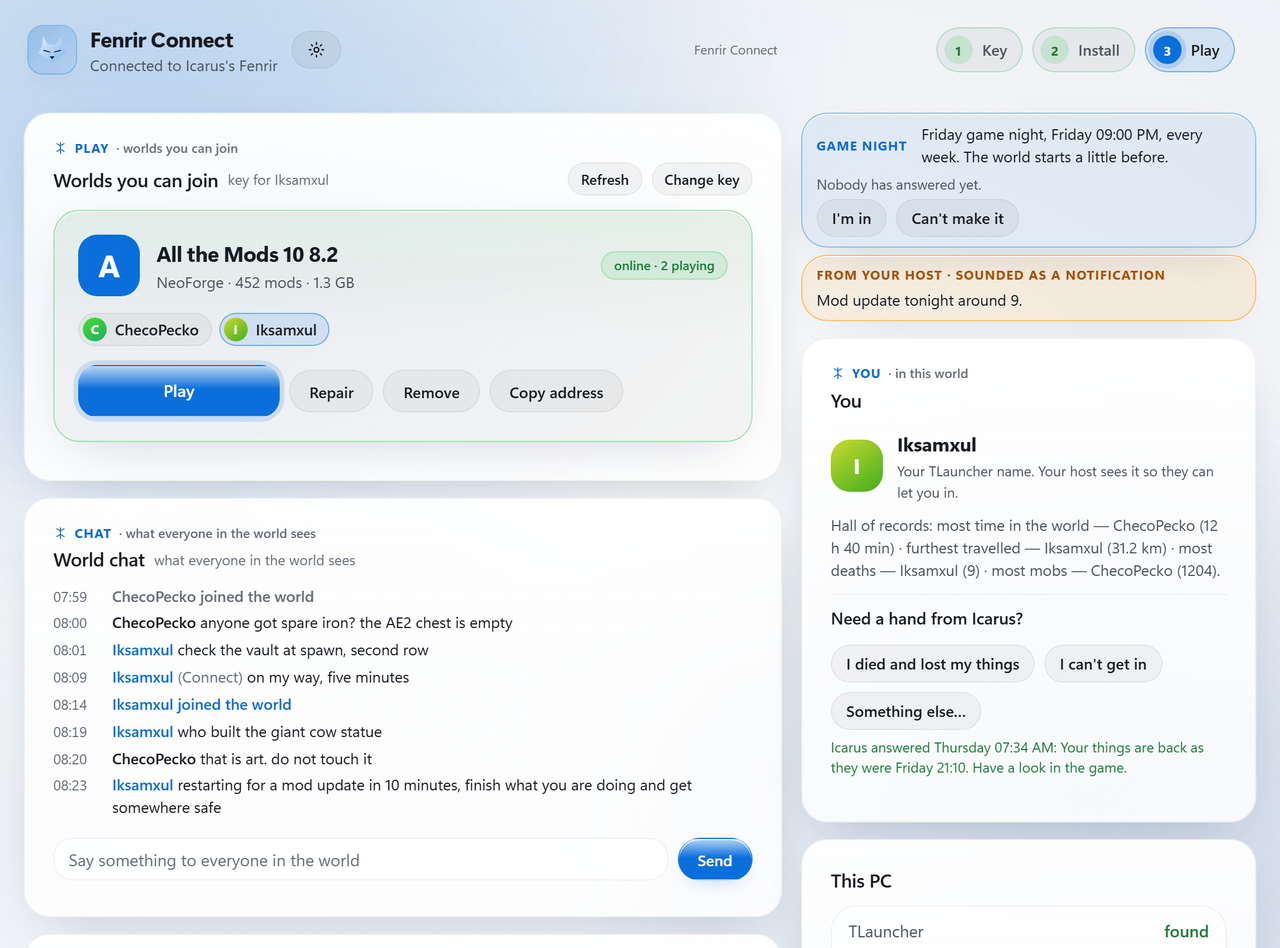
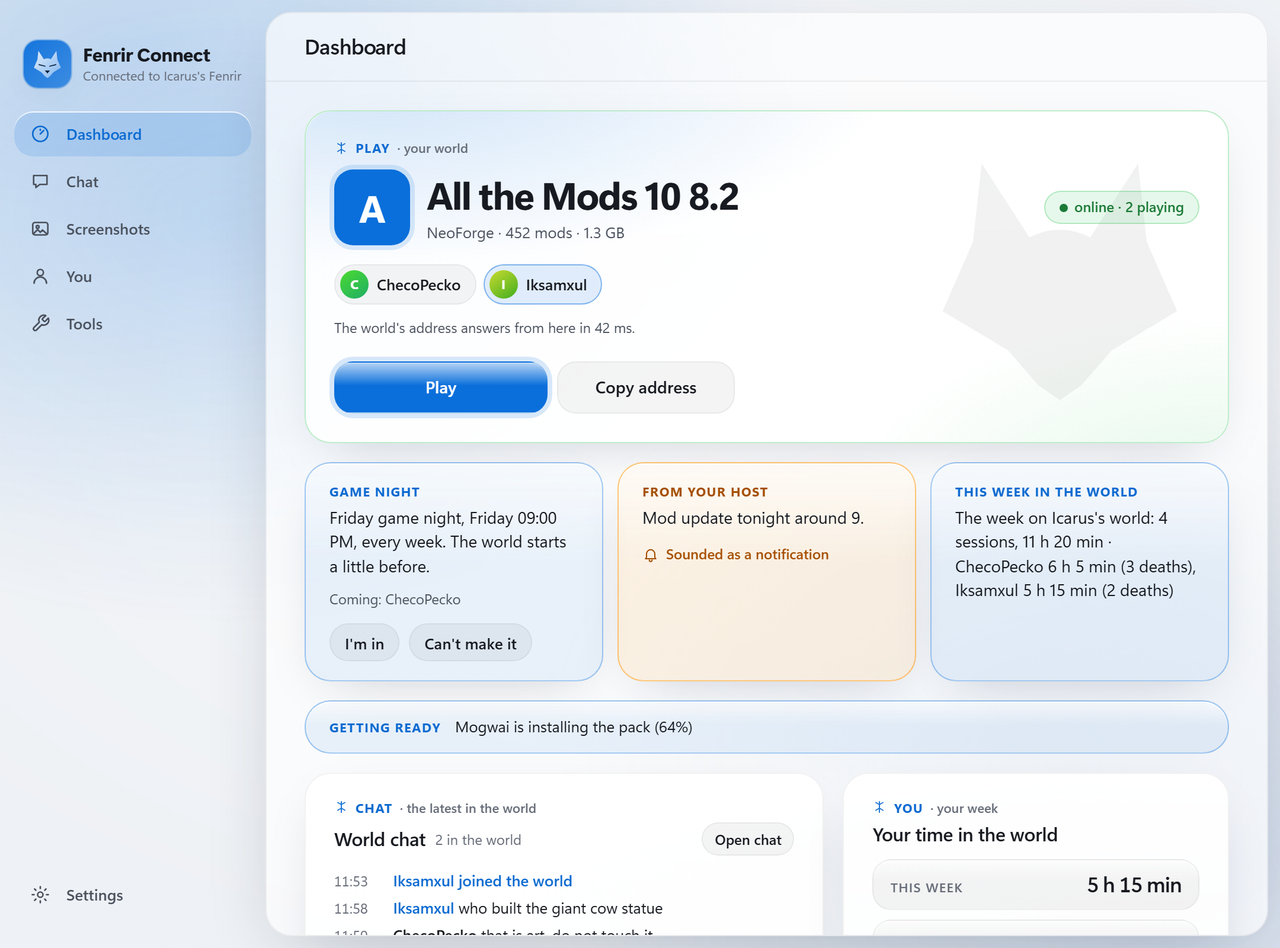
Fenrir site for build 1.36.0

diff --git a/link.html b/link.html
@@ -128,7 +128,7 @@
     <div class="wrap">
       <p class="eyebrow"><svg class="rune" aria-hidden="true"><use href="#rune"/></svg>Fenrir Link, for your phone</p>
       <h1 class="page-title" id="page-title"><span class="line">Your world.</span> <span class="line accent">In your pocket.</span></h1>
-      <p class="lead">Scan your code from Fenrir or Fenrir Connect once, and your phone keeps it like a passkey. Start the world from the sofa, see who is on, answer game nights and chat with everyone in the world.</p>
+      <p class="lead">Scan your code from Fenrir or Fenrir Connect once, and your phone keeps it like a passkey. A live dashboard, the console and every tool for your own server; for a friend's world, who is on, the chat and the game night.</p>
       <div class="phero__cta">
         <a class="btn btn--primary btn--lg" data-v-href="linkAndroid" role="link" aria-disabled="true"><svg class="i" aria-hidden="true"><use href="#i-down"/></svg>Get it for Android</a>
         <a class="btn btn--ghost btn--lg" href="#iphone">Get it for iPhone</a>
@@ -149,7 +149,7 @@
           <div class="phone__screen">
             <div class="phone__status" aria-hidden="true"><span>21:04</span><span><i style="height:4px"></i><i style="height:6px"></i><i style="height:8px"></i><i style="height:10px"></i></span></div>
             <div class="phone__notch" aria-hidden="true"></div>
-            <picture><source srcset="assets/shots/link-host-light.png" media="(prefers-color-scheme: light)" data-when="light"><img src="assets/shots/link-host.png" width="860" height="1800" alt="Fenrir Link on a phone, showing Icarus's server online with three players, its TPS and tick time, Restart and Stop buttons, the players with Kick buttons, and a box to message everyone." fetchpriority="high" decoding="async"></picture>
+            <picture><source srcset="assets/shots/link-host-light.png" media="(prefers-color-scheme: light)" data-when="light"><img src="assets/shots/link-host.png" width="860" height="1800" alt="Fenrir Link on a phone: the dashboard of Icarus's server, online with three players, its TPS, tick time and memory, Restart and Stop, a friend who needs a hand, and a chart of the last half hour." fetchpriority="high" decoding="async"></picture>
           </div>
         </div>
         <div class="phone phones__side phones__side--r" aria-hidden="true">
@@ -172,7 +172,7 @@
         <p class="copy">Every person has a code of their own, and the code is the key. Scan it once and the phone keeps it in its keychain, so there is no account and no password.</p>
         <ol class="pair-steps">
           <li><b>Your own server.</b> Open Fenrir on the PC that hosts. The Fenrir Link card on the Dashboard shows your code.</li>
-          <li><b>A friend's world.</b> Open Fenrir Connect. Your code is on the You card.</li>
+          <li><b>A friend's world.</b> Open Fenrir Connect. Your code is on the You page.</li>
           <li><b>Your phone.</b> Open Fenrir Link, press +, then Scan a code. That is the whole setup.</li>
         </ol>
       </div>
@@ -195,7 +195,7 @@
       <div class="scene__copy">
         <p class="eyebrow"><svg class="rune" aria-hidden="true"><use href="#rune"/></svg>Your server</p>
         <h2 class="title" id="t-host"><span class="line">Start the world</span> <span class="line accent">from the sofa.</span></h2>
-        <p class="copy">Start, stop and restart. Stopping while friends are on asks twice and names who is playing. See who is in, kick someone, answer friends who asked to play, message everyone and start a backup. The Doctor's most urgent finding sits at the top.</p>
+        <p class="copy">The dashboard opens on the world: online or off, how many are playing, its TPS, tick time and memory, and a chart of the last half hour. Start, stop and restart; stopping while friends are on asks twice and names who is playing. Friends who want to play or need a hand wait at the top, one tap from an answer.</p>
       </div>
       <div class="scene__visual pocket">
         <div class="glow" aria-hidden="true"></div>
@@ -203,7 +203,7 @@
           <div class="phone__screen">
             <div class="phone__status" aria-hidden="true"><span>21:04</span><span><i style="height:4px"></i><i style="height:6px"></i><i style="height:8px"></i><i style="height:10px"></i></span></div>
             <div class="phone__notch" aria-hidden="true"></div>
-            <picture><source srcset="assets/shots/link-host-light.png" media="(prefers-color-scheme: light)" data-when="light"><img src="assets/shots/link-host.png" width="860" height="1800" alt="Your server in Fenrir Link: online with three players, Restart and Stop, players with Kick buttons, a message box and the friends' states." loading="lazy" decoding="async"></picture>
+            <picture><source srcset="assets/shots/link-host-light.png" media="(prefers-color-scheme: light)" data-when="light"><img src="assets/shots/link-host.png" width="860" height="1800" alt="Your server's dashboard in Fenrir Link: online with three players, TPS, tick time and memory, Restart and Stop, and Kestrel asking to be let in." loading="lazy" decoding="async"></picture>
           </div>
         </div>
         <div class="chip pocket__ask"><span class="m-av m-av--sm" aria-hidden="true">M</span><span><b>Mogwai wants to play</b><small>Start the world · Not now</small></span></div>
@@ -212,13 +212,47 @@
     </div>
   </section>
 
+  <!-- The console and the tools -->
+  <section class="scene" id="tools" aria-labelledby="t-tools">
+    <div class="wrap scene__grid">
+      <div class="scene__copy">
+        <p class="eyebrow"><svg class="rune" aria-hidden="true"><use href="#rune"/></svg>Your server, on four tabs</p>
+        <h2 class="title" id="t-tools"><span class="line">The whole console.</span> <span class="line accent">Every tool.</span></h2>
+        <p class="copy">Everything the PC can do for the world, from wherever you are. Nothing to set up: it is all in the code you scanned.</p>
+        <ul class="tab-list">
+          <li><b>Dashboard</b>The world's state, TPS, tick time and memory, a chart of the last half hour, friends who want to play or need a hand.</li>
+          <li><b>Players</b>Who is on and for how long, a message to one of them, a kick, and the whitelist to add to or take from.</li>
+          <li><b>Console</b>The server's console, live, with chat, issues and Fenrir's own lines a tap apart, quick commands and a command line.</li>
+          <li><b>Tools</b>Back up now and the recent backups, save the world, make it day, the note to friends with a notification, and who can start the world.</li>
+        </ul>
+      </div>
+      <div class="scene__visual twophones">
+        <div class="glow" aria-hidden="true"></div>
+        <div class="phone twophones__a">
+          <div class="phone__screen">
+            <div class="phone__status" aria-hidden="true"><span>21:04</span><span><i style="height:4px"></i><i style="height:6px"></i><i style="height:8px"></i><i style="height:10px"></i></span></div>
+            <div class="phone__notch" aria-hidden="true"></div>
+            <picture><source srcset="assets/shots/link-console-light.png" media="(prefers-color-scheme: light)" data-when="light"><img src="assets/shots/link-console.png" width="860" height="1800" alt="The console in Fenrir Link: the server's lines with their times, chat in blue and a warning in amber, quick commands and a command line." loading="lazy" decoding="async"></picture>
+          </div>
+        </div>
+        <div class="phone twophones__b">
+          <div class="phone__screen">
+            <div class="phone__status" aria-hidden="true"><span>21:04</span><span><i style="height:4px"></i><i style="height:6px"></i><i style="height:8px"></i><i style="height:10px"></i></span></div>
+            <div class="phone__notch" aria-hidden="true"></div>
+            <picture><source srcset="assets/shots/link-tools-light.png" media="(prefers-color-scheme: light)" data-when="light"><img src="assets/shots/link-tools.png" width="860" height="1800" alt="The Tools tab: back up now with the last backup's size, the recent backups, save the world, make it day, clear the weather and the note to friends." loading="lazy" decoding="async"></picture>
+          </div>
+        </div>
+      </div>
+    </div>
+  </section>
+
   <!-- A friend's world -->
-  <section class="scene" id="friend" aria-labelledby="t-friend">
+  <section class="scene scene--deep scene--flip" id="friend" aria-labelledby="t-friend">
     <div class="wrap scene__grid">
       <div class="scene__copy">
         <p class="eyebrow"><svg class="rune" aria-hidden="true"><use href="#rune"/></svg>A friend's world</p>
         <h2 class="title" id="t-friend"><span class="line">Is everyone on?</span> <span class="line accent">Look before you go.</span></h2>
-        <p class="copy">See whether the world is up and who is playing. Ask your host to start it, answer the next game night and chat with everyone in the world, from wherever you are.</p>
+        <p class="copy">See whether the world is up and who is playing, and ask your host to start it. Answer the next game night, chat with everyone in the world, ask your host for a hand, look through the world's screenshots and share one of your own.</p>
       </div>
       <div class="scene__visual pocket">
         <div class="glow glow--teal" aria-hidden="true"></div>
@@ -226,7 +260,7 @@
           <div class="phone__screen">
             <div class="phone__status" aria-hidden="true"><span>21:04</span><span><i style="height:4px"></i><i style="height:6px"></i><i style="height:8px"></i><i style="height:10px"></i></span></div>
             <div class="phone__notch" aria-hidden="true"></div>
-            <picture><source srcset="assets/shots/link-friend-light.png" media="(prefers-color-scheme: light)" data-when="light"><img src="assets/shots/link-friend.png" width="860" height="1800" alt="A friend's world in Fenrir Link: online with two players, the next game night with I'm in and Can't make it, and the world chat." loading="lazy" decoding="async"></picture>
+            <picture><source srcset="assets/shots/link-friend-light.png" media="(prefers-color-scheme: light)" data-when="light"><img src="assets/shots/link-friend.png" width="860" height="1800" alt="A friend's world in Fenrir Link: online with three players, the host's note, the next game night with I'm in and Can't make it, and who is in the world." loading="lazy" decoding="async"></picture>
           </div>
         </div>
         <div class="chip pocket__ask"><svg class="i" aria-hidden="true"><use href="#i-calendar"/></svg><span><b>Friday game night</b><small>I'm in · Can't make it</small></span></div>

diff --git a/connect.html b/connect.html
@@ -128,7 +128,7 @@
     <div class="wrap">
       <p class="eyebrow"><svg class="rune" aria-hidden="true"><use href="#rune"/></svg>Fenrir Connect, for friends</p>
       <h1 class="page-title" id="page-title"><span class="line">Your friend hosts.</span> <span class="line accent">You press Play.</span></h1>
-      <p class="lead">Fenrir Connect installs your host’s modpack into TLauncher, sets the memory for your PC and joins their world as soon as the game loads. Updates take one click.</p>
+      <p class="lead">Fenrir Connect installs your host’s modpack into TLauncher, sets the memory for your PC and joins their world as soon as the game loads. Its Dashboard puts the world first; its Tools page checks the connection and the pack for you.</p>
       <div class="phero__cta">
         <a class="btn btn--teal btn--lg" href="#link">How you get in</a>
         <a class="btn btn--ghost btn--lg" href="download#connect"><svg class="i" aria-hidden="true"><use href="#i-down"/></svg>Download Fenrir Connect</a>
@@ -140,7 +140,7 @@
         <figure class="frame frame--hero" style="max-width:1080px;margin-inline:auto">
           <div class="frame__bar" aria-hidden="true"><i></i><i></i><i></i><b>Fenrir Connect</b></div>
           <div class="frame__view" data-name="Fenrir Connect">
-            <picture><source srcset="assets/shots/connect-light.png" media="(prefers-color-scheme: light)" data-when="light"><img src="assets/shots/connect.png" width="2160" height="1600" alt="Fenrir Connect on a friend's PC: All the Mods 10 online with two players and a Play button, the game night, a note from the host and the You card." fetchpriority="high" decoding="async"></picture>
+            <picture><source srcset="assets/shots/connect-light.png" media="(prefers-color-scheme: light)" data-when="light"><img src="assets/shots/connect.png" width="2160" height="1600" alt="Fenrir Connect's Dashboard on a friend's PC: the sidebar with Dashboard, Chat, Screenshots, You and Tools; All the Mods 10 online with two players and a Play button; the game night, a note from the host and the week in the world." fetchpriority="high" decoding="async"></picture>
           </div>
         </figure>
       </div>
@@ -261,15 +261,15 @@
     </div>
   </section>
 
-  <!-- The You card -->
+  <!-- The You page -->
   <section class="scene scene--deep scene--flip" id="you" aria-labelledby="t-you">
     <div class="wrap scene__grid">
       <div class="scene__copy">
-        <p class="eyebrow"><svg class="rune" aria-hidden="true"><use href="#rune"/></svg>The You card</p>
+        <p class="eyebrow"><svg class="rune" aria-hidden="true"><use href="#rune"/></svg>The You page</p>
         <h2 class="title" id="t-you"><span class="line">Your name.</span> <span class="line accent">Your week.</span></h2>
-        <p class="copy">The name you join with and whether it is on the whitelist. Your time in the world this week, how your last session went, the hall of records, and your live page on your phone.</p>
+        <p class="copy">The name you join with and whether it is on the whitelist. Your time in the world this week, how your last session went, the hall of records, and your code for Fenrir Link, the phone app.</p>
       </div>
-      <div class="scene__visual mock stage" role="img" aria-label="The You card: Iksamxul, on the whitelist. This week: 4 hours 12 minutes over 3 sessions with 2 deaths. The last session was 1 hour 12 minutes. The hall of records lists the most time, furthest travelled, most deaths and most mobs.">
+      <div class="scene__visual mock stage" role="img" aria-label="The You page: Iksamxul, on the whitelist. This week: 4 hours 12 minutes over 3 sessions with 2 deaths. The last session was 1 hour 12 minutes. The hall of records lists the most time, furthest travelled, most deaths and most mobs.">
         <div class="glow" aria-hidden="true"></div>
         <div class="m-card" style="width:94%">
           <p class="m-kick"><svg class="rune" aria-hidden="true"><use href="#rune"/></svg>You <span>· in this world</span></p>
@@ -279,15 +279,39 @@
           <p class="m-sub" style="margin-top:.9em">Last time you played 1 h 12 min, with 2 deaths and 3 advancements.</p>
           <span class="m-label">Hall of records</span>
           <div class="m-tags"><span>Most time <b>ChecoPecko, 12 h 40 min</b></span><span>Furthest travelled <b>Iksamxul, 31.2 km</b></span><span>Most deaths <b>Iksamxul, 9</b></span><span>Most mobs <b>ChecoPecko, 1,204</b></span></div>
-          <p class="m-note-line"><svg class="i" aria-hidden="true"><use href="#i-phone"/></svg>Scan the code on this card to open your live page on your phone.</p>
+          <p class="m-note-line"><svg class="i" aria-hidden="true"><use href="#i-phone"/></svg>Scan your code with Fenrir Link to keep the world on your phone.</p>
         </div>
         <div class="chip stage__c"><span class="dot dot--ok"></span><span><b>The world answers from here</b><small>in 48 ms, checked once a minute</small></span></div>
       </div>
     </div>
   </section>
 
+  <!-- Tools -->
+  <section class="scene" id="tools" aria-labelledby="t-tools">
+    <div class="wrap scene__grid">
+      <div class="scene__copy">
+        <p class="eyebrow"><svg class="rune" aria-hidden="true"><use href="#rune"/></svg>The Tools page</p>
+        <h2 class="title" id="t-tools"><span class="line">Something off?</span> <span class="line accent">Tools has it.</span></h2>
+        <p class="copy">For the evening the game will not start, the world will not answer or your host asks what is wrong. Every tool answers right where you pressed it.</p>
+        <ul class="tab-list">
+          <li><b>Test the connection</b>Whether your host’s Fenrir and the world answer from this PC, how fast, and who can fix it when they do not.</li>
+          <li><b>What’s in the pack</b>Every mod of the world with its size, and any mods of your own that were set aside.</li>
+          <li><b>A summary for your host</b>This PC, your pack and the last error in one message to paste. Your key is never in it.</li>
+          <li><b>Check and repair</b>Every file against your host’s, fixing whatever differs; the game, logs and screenshots folders one click away.</li>
+        </ul>
+      </div>
+      <div class="scene__visual scene__visual--bleed stage">
+        <div class="glow glow--teal" aria-hidden="true"></div>
+        <figure class="frame">
+          <div class="frame__bar" aria-hidden="true"><i></i><i></i><i></i><b>Fenrir Connect · Tools</b></div>
+          <div class="frame__view" data-name="Tools"><picture><source srcset="assets/shots/connect-tools-light.png" media="(prefers-color-scheme: light)" data-when="light"><img src="assets/shots/connect-tools.png" width="2160" height="1600" alt="Fenrir Connect's Tools page: open TLauncher, the game, screenshots and logs folders, send the game log to your host, then check and repair the pack, what is in the pack and remove the pack." loading="lazy" decoding="async"></picture></div>
+        </figure>
+      </div>
+    </div>
+  </section>
+
   <!-- SmartScreen -->
-  <section class="scene" id="smartscreen" aria-labelledby="t-smart">
+  <section class="scene scene--deep scene--flip" id="smartscreen" aria-labelledby="t-smart">
     <div class="wrap scene__grid">
       <div class="scene__copy">
         <p class="eyebrow"><svg class="rune" aria-hidden="true"><use href="#rune"/></svg>A note on Windows</p>

diff --git a/index.html b/index.html
@@ -338,7 +338,7 @@
       <div class="scene__copy">
         <p class="eyebrow"><svg class="rune" aria-hidden="true"><use href="#rune"/></svg>Fenrir Connect</p>
         <h2 class="title" id="t-friends"><span class="line">Friends install</span> <span class="line accent">nothing by hand.</span></h2>
-        <p class="copy">Fenrir Connect puts the whole pack into TLauncher, sets the memory for their PC and updates in one click. About 20 MB comes from your PC. CurseForge and Mojang send the rest.</p>
+        <p class="copy">Fenrir Connect puts the whole pack into TLauncher, sets the memory for their PC and updates in one click. About 20 MB comes from your PC. CurseForge and Mojang send the rest. Its Dashboard shows them the world first, and its Tools page tests the connection for them.</p>
         <a class="more" href="connect">Meet Fenrir Connect <svg class="i" aria-hidden="true"><use href="#i-arrow"/></svg></a>
       </div>
       <div class="scene__visual scene__visual--bleed duo">
@@ -352,7 +352,7 @@
         <figure class="frame duo__front">
           <div class="frame__bar" aria-hidden="true"><i></i><i></i><i></i><b>Fenrir Connect</b></div>
           <div class="frame__view" data-name="Fenrir Connect">
-            <picture><source srcset="assets/shots/connect-light.png" media="(prefers-color-scheme: light)" data-when="light"><img class="shot-play" src="assets/shots/connect.png" width="2160" height="1600" alt="Fenrir Connect on a friend's PC: All the Mods 10 is online with two players and a Play button, beside the game night and a note from the host." loading="lazy" decoding="async"></picture>
+            <picture><source srcset="assets/shots/connect-light.png" media="(prefers-color-scheme: light)" data-when="light"><img class="shot-play" src="assets/shots/connect.png" width="2160" height="1600" alt="Fenrir Connect's Dashboard on a friend's PC: All the Mods 10 online with two players, its Play button and the world's address, with the game night, the host's note and the week below." loading="lazy" decoding="async"></picture>
           </div>
         </figure>
         <div class="chip duo__chip"><svg class="i" aria-hidden="true"><use href="#i-link"/></svg><span><b>About 20 MB</b><small>from your PC for a new friend</small></span></div>
@@ -433,7 +433,7 @@
       <div class="scene__copy">
         <p class="eyebrow"><svg class="rune" aria-hidden="true"><use href="#rune"/></svg>Fenrir Link</p>
         <h2 class="title" id="t-phone"><span class="line">Start the world</span> <span class="line accent">from the sofa.</span></h2>
-        <p class="copy">Fenrir Link puts your server on your phone. Scan your code from the Dashboard once, then start, stop and restart, see who is on, answer friends who want to play and message everyone. Friends scan their own code in Fenrir Connect.</p>
+        <p class="copy">Fenrir Link puts your server on your phone. Scan your code from the Dashboard once: a live dashboard with the last half hour, the players and the whitelist, the whole console and every tool, from backups to the note to friends. Friends scan their own code in Fenrir Connect.</p>
         <a class="more" href="link">Meet Fenrir Link <svg class="i" aria-hidden="true"><use href="#i-arrow"/></svg></a>
       </div>
       <div class="scene__visual pocket">
@@ -442,7 +442,7 @@
           <div class="phone__screen">
             <div class="phone__status" aria-hidden="true"><span>21:04</span><span><i style="height:4px"></i><i style="height:6px"></i><i style="height:8px"></i><i style="height:10px"></i></span></div>
             <div class="phone__notch" aria-hidden="true"></div>
-            <picture><source srcset="assets/shots/link-host-light.png" media="(prefers-color-scheme: light)" data-when="light"><img src="assets/shots/link-host.png" width="860" height="1800" alt="Fenrir Link on a phone: your server online with three players, Restart and Stop, the players with Kick buttons and a box to message everyone." loading="lazy" decoding="async"></picture>
+            <picture><source srcset="assets/shots/link-host-light.png" media="(prefers-color-scheme: light)" data-when="light"><img src="assets/shots/link-host.png" width="860" height="1800" alt="Fenrir Link on a phone: the dashboard of your server, online with three players, TPS, tick time and memory, Restart and Stop, and a friend asking to be let in." loading="lazy" decoding="async"></picture>
           </div>
         </div>
         <div class="chip pocket__ask"><span class="m-av m-av--sm" aria-hidden="true">I</span><span><b>Iksamxul wants to play</b><small>Start the world · Not now</small></span></div>

diff --git a/faq.html b/faq.html
@@ -190,8 +190,8 @@
       <div class="faq__group" id="link">
         <h2>Fenrir Link</h2>
         <div class="faq__list">
-          <details class="qa" id="link-what"><summary>What is Fenrir Link?<svg class="i" aria-hidden="true"><use href="#i-chev"/></svg></summary><div class="qa__a"><p>The phone app for Fenrir and Fenrir Connect. Hosts run their server from the phone: start, stop, who is on, friends who want to play. Friends see whether the world is up, answer game nights and chat. It is on the <a href="link">Fenrir Link page</a>.</p></div></details>
-          <details class="qa" id="link-code"><summary>Where is my code?<svg class="i" aria-hidden="true"><use href="#i-chev"/></svg></summary><div class="qa__a"><p>On the PC that hosts, open Fenrir: the Fenrir Link card on the Dashboard shows it. Friends open Fenrir Connect: their code is on the You card. In the app, press +, then Scan a code.</p></div></details>
+          <details class="qa" id="link-what"><summary>What is Fenrir Link?<svg class="i" aria-hidden="true"><use href="#i-chev"/></svg></summary><div class="qa__a"><p>The phone app for Fenrir and Fenrir Connect. Hosts run their server from the phone: a dashboard with the last half hour, the players and the whitelist, the whole console, and tools from backups to the note to friends. Friends see whether the world is up, answer game nights, chat, ask their host for a hand and share pictures. It is on the <a href="link">Fenrir Link page</a>.</p></div></details>
+          <details class="qa" id="link-code"><summary>Where is my code?<svg class="i" aria-hidden="true"><use href="#i-chev"/></svg></summary><div class="qa__a"><p>On the PC that hosts, open Fenrir: the Fenrir Link card on the Dashboard shows it. Friends open Fenrir Connect: their code is on the You page. In the app, press +, then Scan a code.</p></div></details>
           <details class="qa" id="link-store"><summary>Why is it not in the App Store or Google Play?<svg class="i" aria-hidden="true"><use href="#i-chev"/></svg></summary><div class="qa__a"><p>Fenrir is free and has no store accounts. Android installs the APK straight from the download. iPhone installs it through AltStore or Sideloadly on a computer, which sign it with your own Apple ID.</p></div></details>
           <details class="qa" id="link-secure"><summary>The Fenrir Link card says the code needs a secure address.<svg class="i" aria-hidden="true"><use href="#i-chev"/></svg></summary><div class="qa__a"><p>Your server’s code only works over https. Turn on Cloudflare or Tailscale under Network &amp; Cloud, then the card shows the code.</p></div></details>
           <details class="qa" id="link-stopped"><summary>My code stopped working.<svg class="i" aria-hidden="true"><use href="#i-chev"/></svg></summary><div class="qa__a"><p>Its key was replaced, or the phone remote was turned off. Show the code again in Fenrir or Fenrir Connect and scan it. The app says so when a code no longer works.</p></div></details>

diff --git a/assets/site.css b/assets/site.css
@@ -627,7 +627,7 @@ kbd {
 .frame.is-empty .frame__view { aspect-ratio: 16 / 10; background: linear-gradient(var(--win-line) 1px, transparent 1px) 0 0 / 32px 32px, linear-gradient(90deg, var(--win-line) 1px, transparent 1px) 0 0 / 32px 32px, var(--win-bg); }
 .frame.is-empty .frame__view img { display: none; }
 .frame.is-empty .frame__view::after { content: attr(data-name); position: absolute; inset: 0; display: grid; place-items: center; font: 700 1.25rem/1 var(--font-display); color: var(--win-ink); }
-/* the friends' app cropped to its Play strip: everything below the What's new card (y 920 to 1600 of the shot) */
+/* the friends' app cropped to its Dashboard's world card and Play (y about 165 to 845 of the 1600 px shot) */
 .shot-play { aspect-ratio: 2160 / 680; object-fit: cover; object-position: 50% 18%; }   /* the world card and Play */
 /* Settings, cropped to the Behaviour card: x 1666 to 2826 and y 708 to 1770 of the 2880 x 1800 shot */
 .frame__crop { aspect-ratio: 1160 / 1062; overflow: hidden; }
@@ -1315,5 +1315,14 @@ html[data-slot="b"] .logo .lg-b { opacity: 1; }
 .safe-grid .panel .i { width: 28px; height: 28px; color: var(--accent-text); }
 .safe-grid .panel h3 { margin: 14px 0 8px; font: 700 1.2rem/1.25 var(--font-display); color: var(--ink); }
 .safe-grid .panel p { margin: 0; color: var(--ink-2); }
+/* the console and the tools: two phones, the second a step lower */
+.twophones { position: relative; display: flex; justify-content: center; align-items: flex-start; padding-block: 2% 8%; }
+.twophones .phone { width: min(46%, 290px); margin: 0; flex: none; }
+.twophones__a { z-index: 2; }
+.twophones__b { z-index: 1; margin: 14% 0 0 -7% !important; }
+.tab-list { list-style: none; margin: 22px 0 0; padding: 0; display: grid; gap: 12px; }
+.tab-list li { position: relative; padding-left: 20px; color: var(--ink-2); }
+.tab-list li::before { content: ""; position: absolute; left: 0; top: .62em; width: 8px; height: 8px; border-radius: 50%; background: var(--accent-text); box-shadow: 0 0 0 4px color-mix(in srgb, var(--accent-text) 16%, transparent); }
+.tab-list b { display: block; color: var(--ink); }
 .steps-mini { margin: 18px 0 6px; padding-left: 1.25em; display: grid; gap: 7px; color: var(--ink-2); font-size: .95rem; }
 .steps-mini b { color: var(--ink); }
